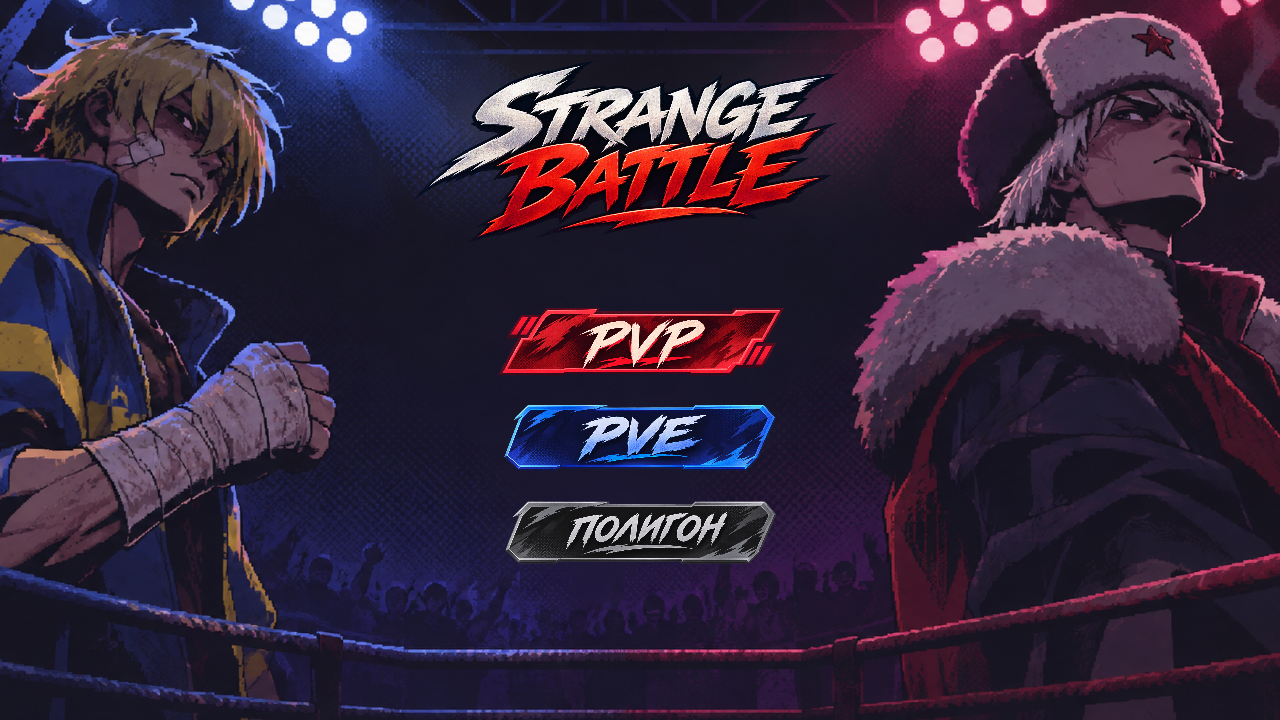
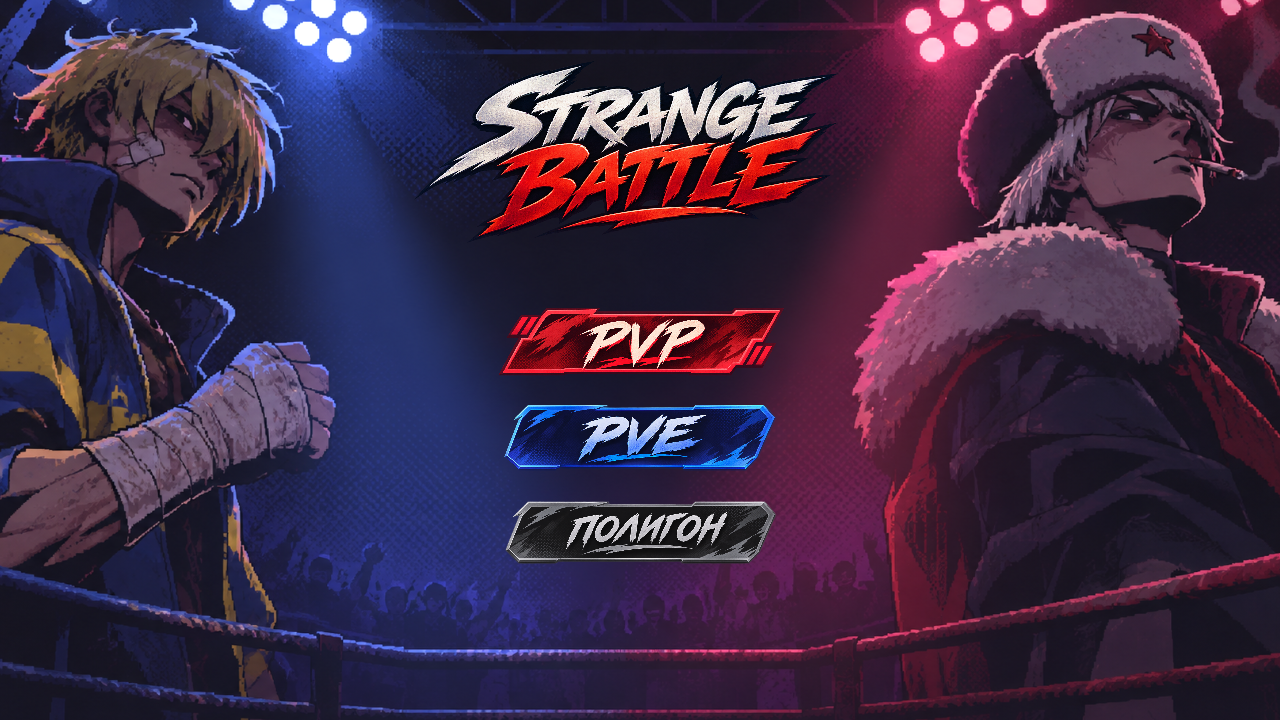
Add animated menu spotlights

diff --git a/README.md b/README.md
@@ -10,8 +10,9 @@
 исходных PNG из `C:\vbc\SB\assets\menu`; HTML-версия остаётся доступной через
 `npm start` в `C:\vbc\SB`.
 
-На первом этапе реализованы фон, логотип, PVP/PVE/Полигон, мягкие источники
-света, смещение фона за курсором (±11/±7 px), небольшое движение логотипа,
+На первом этапе реализованы фон, логотип, PVP/PVE/Полигон, два световых конуса
+от нарисованных прожекторов с независимым редким миганием, смещение фона за
+курсором (±11/±7 px), небольшое движение логотипа,
 увеличение и подсветка кнопок при наведении, сжатие при нажатии. Композиция
 масштабируется с сохранением пропорций. Кнопки сейчас дают визуальный отклик;
 их переходы появятся после утверждения этого экрана и создания выбора бойцов.
@@ -23,7 +24,8 @@ Enter ничего не открывает. Звук и музыка в этом
 
 Проверка загружает рисунки, проверяет покрытие фоном, смещение от курсора,
 размер кнопок в окне 1000×600 и анимацию наведения. Снимок сохраняется в
-`verification/menu.png` внутри проекта Godot. Реальное ощущение мыши и художественное
+`verification/menu.png` и `verification/menu-lights-dim.png` внутри проекта Godot.
+Проверка также подтверждает, что оба прожектора заметно пригасают. Реальное ощущение мыши и художественное
 восприятие анимации остаются ручной проверкой.
 
 Следующий согласованный этап: 2D-модели России и Украины. Бой, способности,
